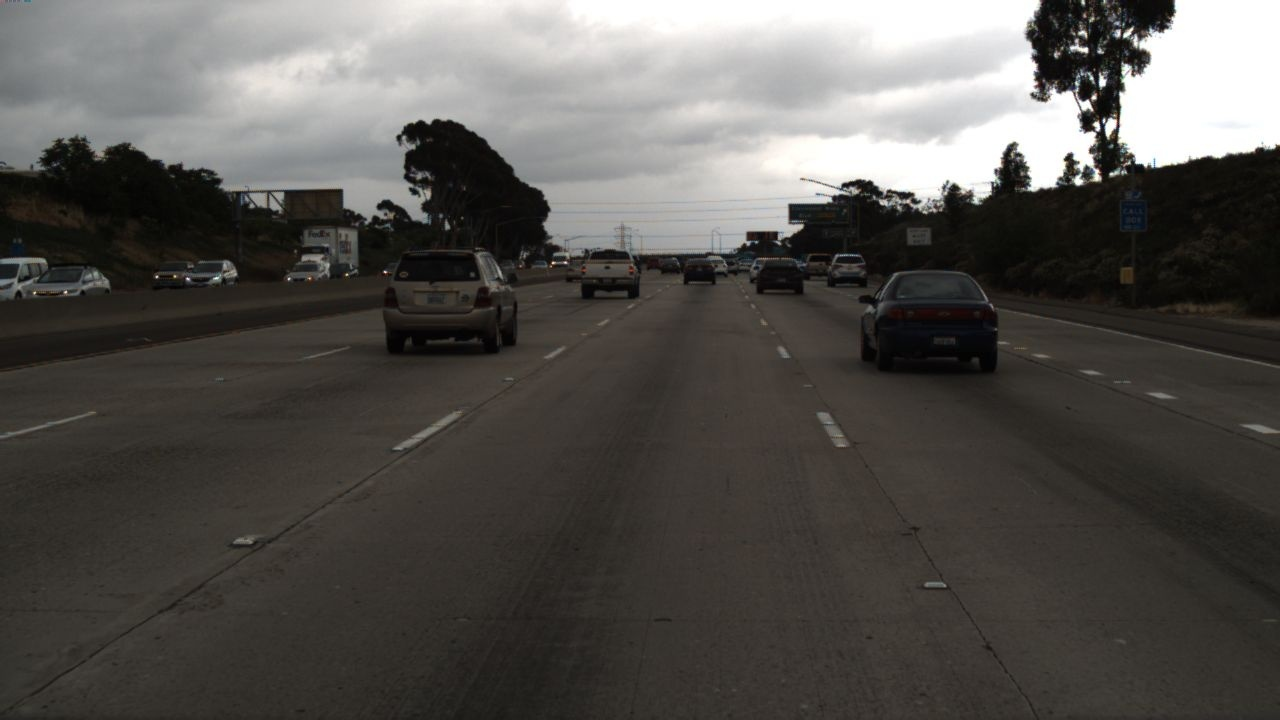
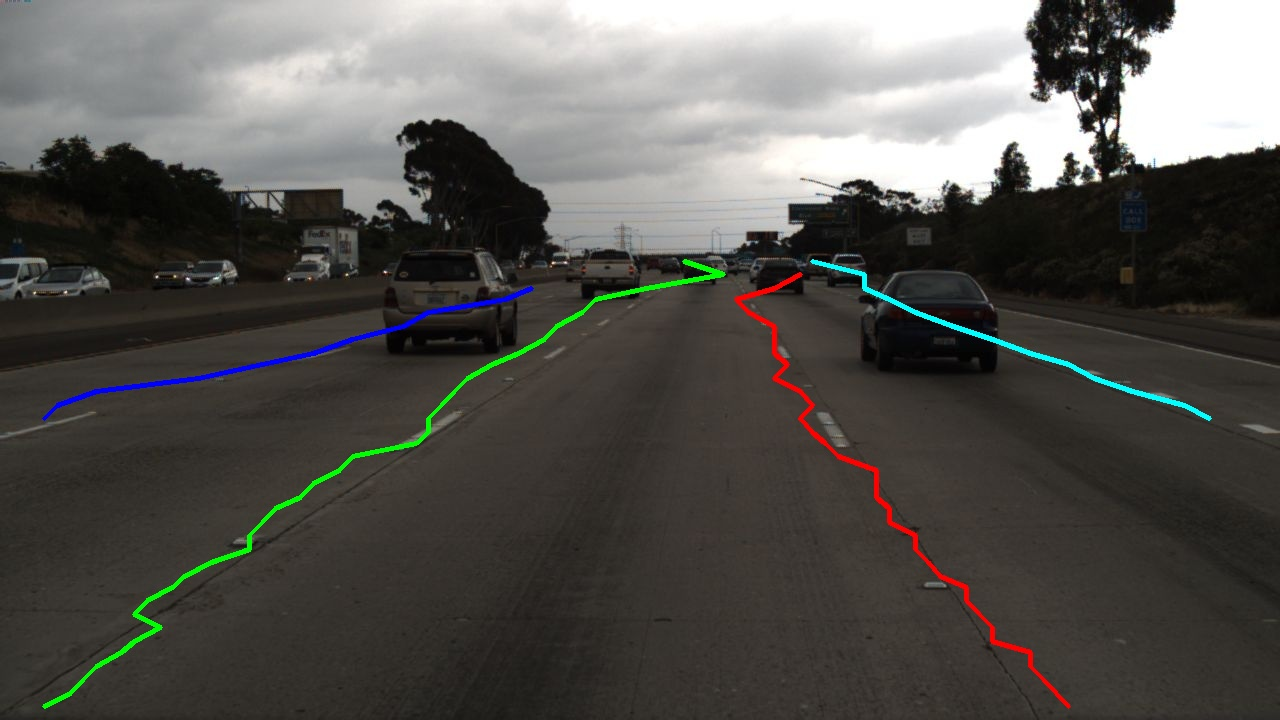
for the first time, I see lane in the inference with 79% accuracy

diff --git a/utils/visualization.py b/utils/visualization.py
@@ -28,71 +28,52 @@ def decode_predictions(predictions, cfg, threshold=0.5):
     import torch
     
     batch_size = predictions['loc_row'].shape[0]
-    num_cell_row = predictions['loc_row'].shape[1]  # Get from actual tensor shape
-    num_row = predictions['loc_row'].shape[2]
-    num_lanes = predictions['loc_row'].shape[3]
+    num_cell_row = predictions['loc_row'].shape[1]  # 100
+    num_row = predictions['loc_row'].shape[2]       # 56
+    num_lanes = predictions['loc_row'].shape[3]     # 4
     
     all_lanes = []
     
     for b in range(batch_size):
         batch_lanes = []
         
-        # Process each lane
         for lane_idx in range(num_lanes):
             lane_points = []
             
-            # Get location and existence predictions for this lane
-            loc_row = predictions['loc_row'][b, :, :, lane_idx]  # [num_cell_row, num_row]
+            loc_row = predictions['loc_row'][b, :, : , lane_idx]  # [100, 56]
             
-            # Handle existence - could be [2, num_row, num_lanes] or [num_row, num_lanes]
-            if predictions['exist_row'].dim() == 4:  # [B, 2, num_row, num_lanes]
+            # Handle existence
+            if predictions['exist_row']. dim() == 4:
                 exist_row = torch.softmax(predictions['exist_row'][b, :, :, lane_idx], dim=0)
-                exist_prob = exist_row[1]  # Probability of existence
-            else:  # [B, num_row, num_lanes]
+                exist_prob = exist_row[1]  # [56]
+            else:
                 exist_prob = predictions['exist_row'][b, :, lane_idx]
             
-            # For each row position
             for row_idx in range(num_row):
-                # Check if lane exists at this row
                 if exist_prob[row_idx] < threshold:
                     continue
                 
-                # Get location prediction for this row
-                loc_pred = loc_row[:, row_idx]  # [num_cell_row]
+                # ✅ CORRECT WAY: argmax to get grid cell index
+                loc_logits = loc_row[: , row_idx]  # [100]
+                max_cell = torch.argmax(loc_logits).item()
                 
-                # Find the cell with maximum value (which grid cell contains the lane)
-                max_cell = torch.argmax(loc_pred).item()
-                offset = loc_pred[max_cell].item()
-                
-                # Skip if offset is invalid (uninitialized target value)
-                if offset < -1e4 or offset > 1.0 or offset < 0.0:
-                    continue
-                
-                # Convert cell index + offset to normalized x coordinate [0, 1]
-                # max_cell is in range [0, num_cell_row-1]
-                # offset is in range [0, 1] (position within the cell)
+                # Use cell center (no offset available from classification)
                 cell_width = 1.0 / num_cell_row
-                x_normalized = (max_cell * cell_width) + (offset * cell_width)
+                x_normalized = (max_cell + 0.5) * cell_width  # Cell center
                 
-                # Clamp to valid range
-                x_normalized = max(0.0, min(1.0, x_normalized))
-                
-                # Convert row index to normalized y coordinate [0, 1]
-                y_normalized = row_idx / (num_row - 1) if num_row > 1 else 0.5
-                
-                # Scale to image dimensions
+                # Convert to pixel coordinates
                 x = x_normalized * cfg.train_width
-                y = y_normalized * cfg.train_height
+                y = (row_idx / (num_row - 1)) * cfg.train_height
                 
                 lane_points.append((int(x), int(y)))
             
-            # Only add lane if it has enough points
             if len(lane_points) >= 2:
                 batch_lanes.append(lane_points)
         
         all_lanes.append(batch_lanes)
     
     return all_lanes
+
 
 
 def visualize_predictions(image, lanes, cfg, gt_lanes=None):

diff --git a/configs/tusimple_config.py b/configs/tusimple_config.py
@@ -8,8 +8,8 @@ class Config:
         # ============ Dataset Configuration ============
         self.dataset = '/home/sswaterlab/Documents/Norakvitou/archive/TUSimple/train_set'  # Path to TuSimple dataset
         self.data_root = '/home/sswaterlab/Documents/Norakvitou/UFLD_v2'  # Root directory
-        # self.dataset = 'D://code//dataset//tusimple//train_set'  # Path to TuSimple dataset
-        # self.data_root = 'D://code//2nd_ufld_lane_detection'  # Root directory
+        #self.dataset = 'D://code//dataset//tusimple//train_set'  # Path to TuSimple dataset
+        #self.data_root = 'D://code//2nd_ufld_lane_detection'  # Root directory
         self.train_gt_file = 'train_gt.txt'  # Ground truth file
         self.num_lanes = 4  # Maximum number of lanes in TuSimple
         
@@ -34,8 +34,8 @@ class Config:
         
         # ============ Training Configuration ============
         self.batch_size = 32  # Reduce to 4 if OOM on Jetson Nano
-        self.epochs = 25
-        self.learning_rate = 0.005
+        self.epochs = 100
+        self.learning_rate = 0.05
         self.weight_decay = 1e-4
         self.momentum = 0.9
         self.optimizer = 'sgd'  # Options: 'sgd', 'adam', 'adamw'
@@ -95,7 +95,16 @@ class Config:
         self.h_samples = list(range(160, 711, 10))
         
         # Lane matching threshold for evaluation
-        self.match_threshold = 0.9
+        self.match_threshold = 0.85  # Lane matching threshold for TuSimple
+        self.val_split = 0.1  # 10% validation split
+        self.val_interval = 1  # Validate every N epochs
+        self.save_interval = 5  # Save checkpoint every N epochs
+        self.log_interval = 10  # Log every N batches
+        self.keep_last_n = 5  # Keep last N checkpoints
+        self.gradient_clip = 0  # No gradient clipping (0 = disabled)
+        self.mixed_precision = False  # Disable mixed precision for stability
+        self.num_workers = 4  # DataLoader workers
+        self.pin_memory = True  # Pin memory for faster GPU transfer
         
         # ============ Jetson Nano Optimizations ============
         self.mixed_precision = True  # Enable FP16 training if supported

diff --git a/train/evaluator.py b/train/evaluator.py
@@ -185,22 +185,29 @@ class TuSimpleEvaluator:
     def _compute_lane_distance(self, lane1, lane2):
         """
         Compute distance between two lanes
-        Uses average point-to-point distance
+        Uses average point-to-point distance at matching row indices
         """
-        # Find common y range
-        y1 = set([y for _, y in lane1])
-        y2 = set([y for _, y in lane2])
-        common_y = y1.intersection(y2)
+        # Convert to dictionaries:  y_norm -> x_norm
+        lane1_dict = {y: x for x, y in lane1}
+        lane2_dict = {y: x for x, y in lane2}
+        
+        # Find common y values (with tolerance for float comparison)
+        common_y = []
+        for y1 in lane1_dict. keys():
+            for y2 in lane2_dict.keys():
+                if abs(y1 - y2) < 1e-6:  # Float tolerance
+                    common_y.append((y1, y2))
+                    break
         
         if len(common_y) == 0:
             return 1.0  # Maximum distance
         
-        # Interpolate x values at common y positions
+        # Compute distances at common y positions
         distances = []
-        for y in common_y:
-            x1 = [x for x, y_val in lane1 if y_val == y][0]
-            x2 = [x for x, y_val in lane2 if y_val == y][0]
-            dist = abs(x1 - x2) / self.cfg.train_width  # Normalized distance
+        for y1, y2 in common_y: 
+            x1 = lane1_dict[y1]
+            x2 = lane2_dict[y2]
+            dist = abs(x1 - x2)  # Already normalized
             distances.append(dist)
         
         return np.mean(distances)
